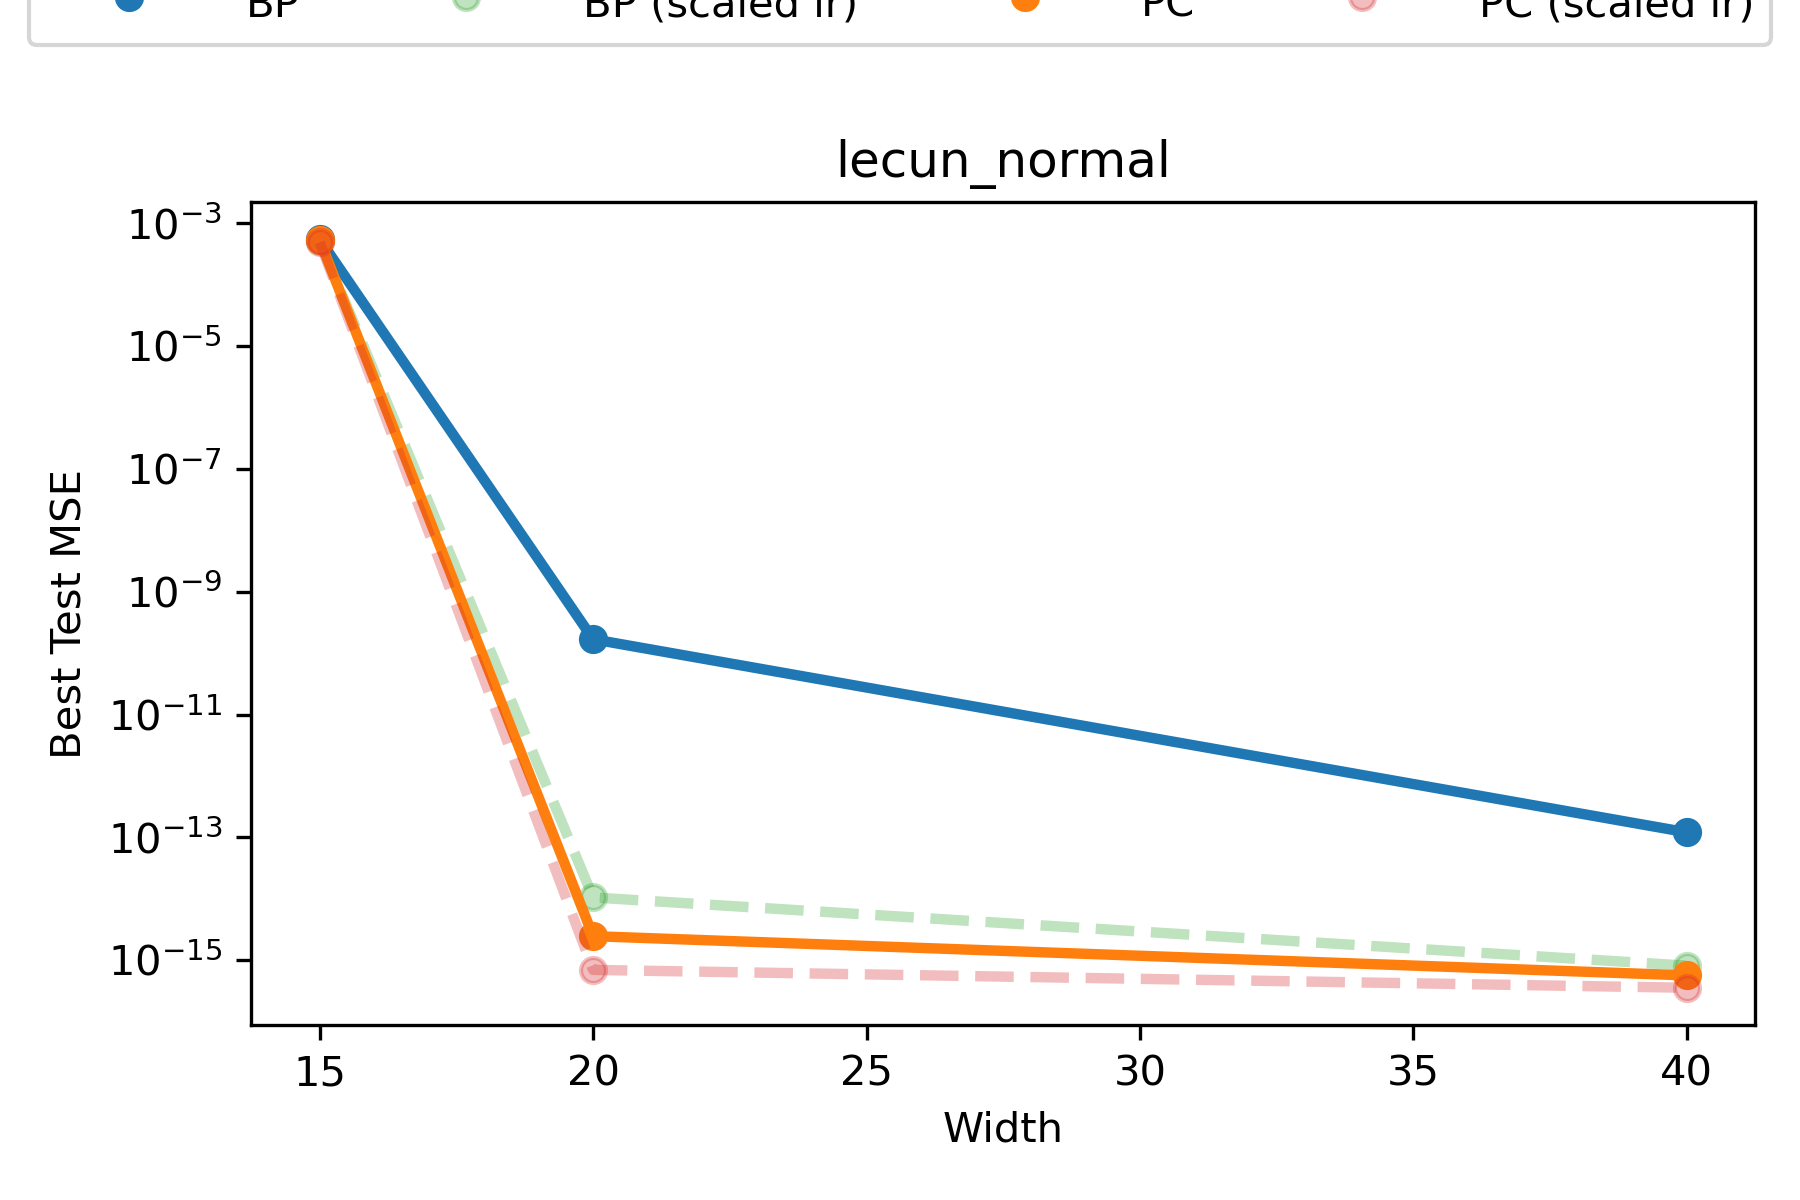
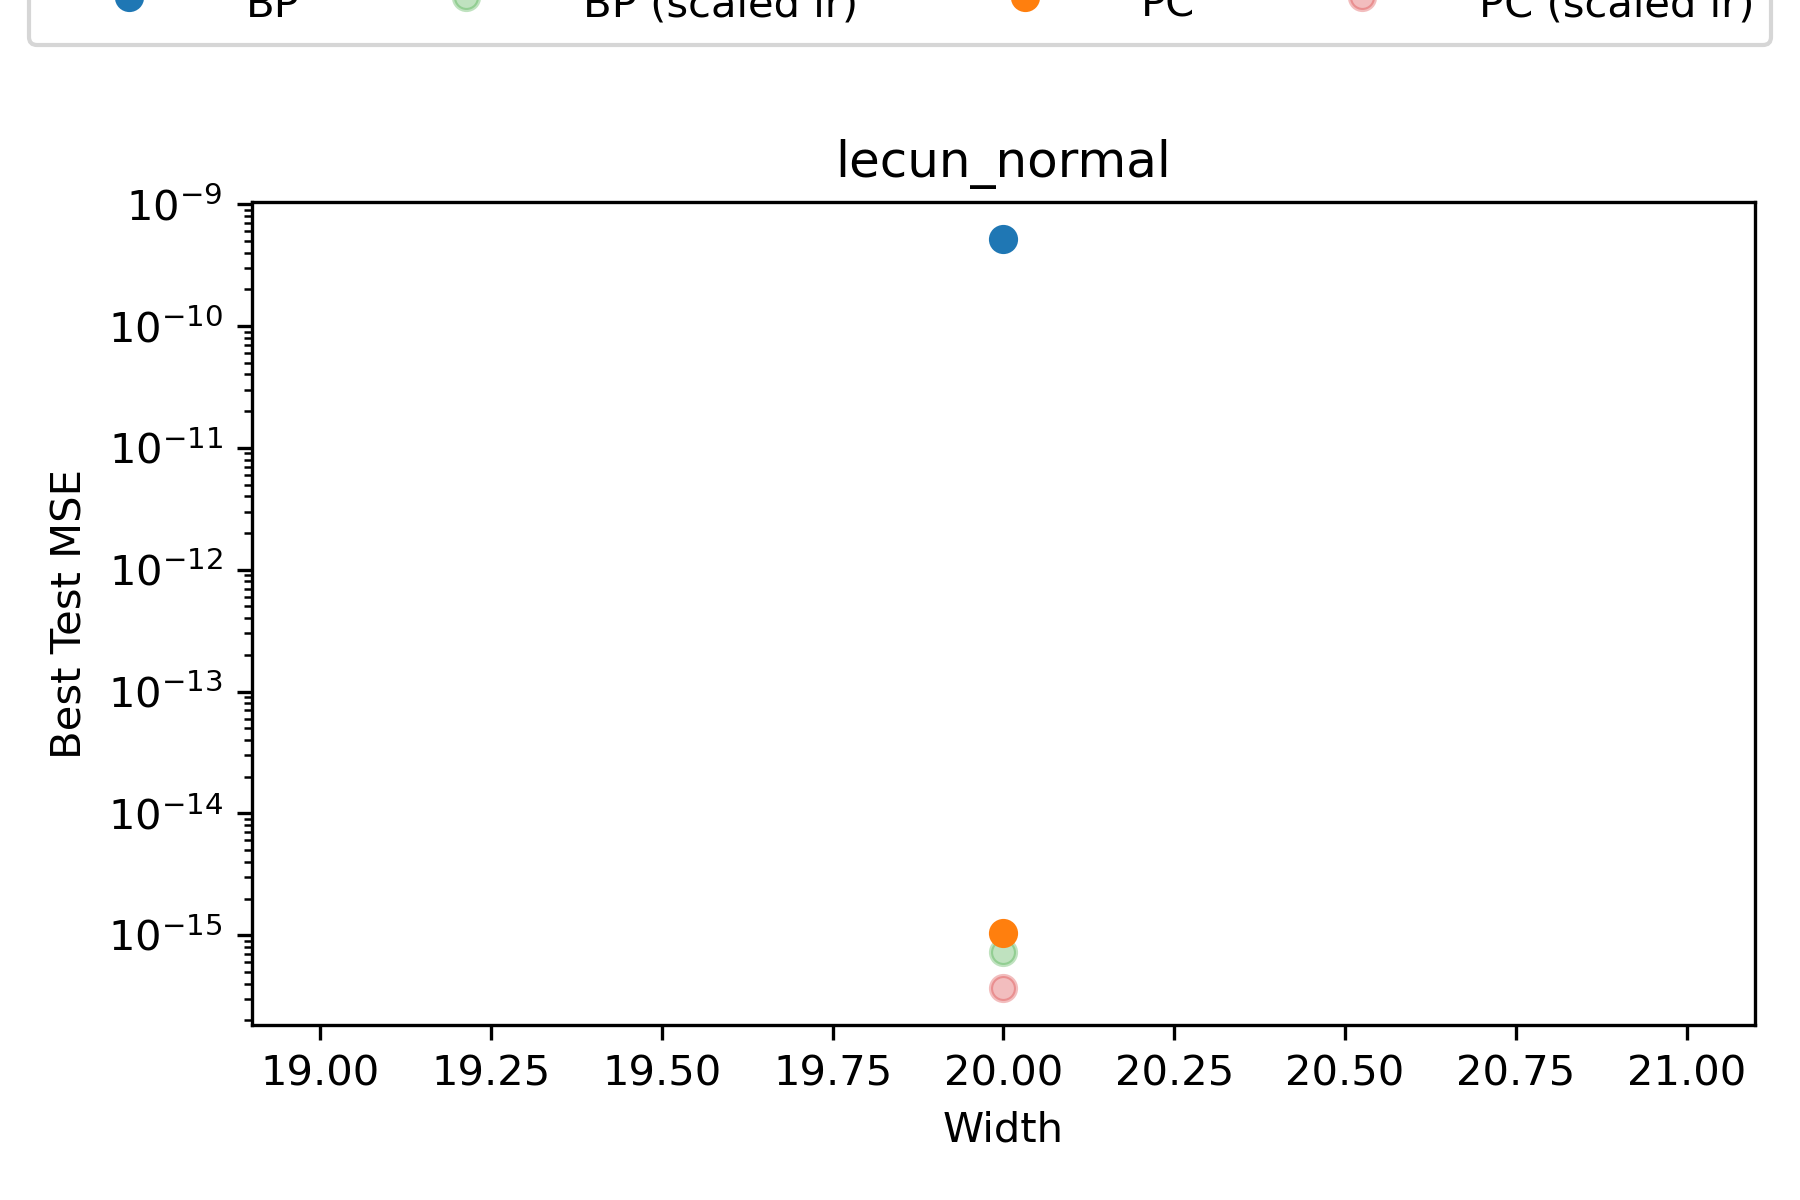
.

diff --git a/Figure2/figure2.py b/Figure2/figure2.py
@@ -271,6 +271,7 @@ class PC_MLP(nn.Module):
     def get_activity_covariance(self, x, y, y_hat, precision):
         self.get_activities(x, y, y_hat, precision)
         covariances = [z0.double().T @ z.double() / z.shape[0] for z0, z in zip(self.z0, self.z)]
+        #covariances = [z0.double().T @ z.double() / z.shape[0] for z0, z in zip(self.z0, self.z)]
         self.scalings = []
         for cov in covariances:
             eps = choose_epsilon_from_eigs(cov, mode="floor", alpha=alpha)
@@ -347,7 +348,7 @@ n_test     = 2048
 batch_size = 64 #64
 
 # widths to sweep
-widths    = [15, 20, 40] #[5, 10, 20, 50, 100]  # edit as needed
+widths    = [20] #[5, 10, 20, 50, 100]  # edit as needed
 nm_layers = 1#5
 
 # training budgets
@@ -524,7 +525,6 @@ for seed in seeds:
     for hidden_dim in widths:
         print(hidden_dim)
         if hidden_dim == 15:
-            print('hi')
             max_steps_sweep = 40#00 #2000
             max_steps_curve = 40#00 #2000
             eval_every      = 10#00
@@ -540,24 +540,22 @@ for seed in seeds:
             amplify_lr_PC = 1#25#3#50    # for BP only (if you want)
         
         if hidden_dim == 20:
-            print('hi')
-            max_steps_sweep = 800#00 #2000
-            max_steps_curve = 800#00 #2000
-            eval_every      = 50#00
+            max_steps_sweep = 400#00 #2000
+            max_steps_curve = 400#00 #2000
+            eval_every      = 40#00
 
             # LR grid (base grid; we optionally amplify for some models)
-            lrs = np.linspace(10**(-3.5), 10**(-0.02), 10) #(-2.9, -0.04, 15)  # ~ 1e-4 ... 1.6e-1
+            lrs = np.linspace(10**(-3.5), 10**(-0.02), 50) #(-2.9, -0.04, 15)  # ~ 1e-4 ... 1.6e-1
 
             # Optional LR scaling knobs (keep if you want)
             amplify_lr_BP_scaled = 1#2       # for "(scaled lr)" variants
-            amplify_lr_PC_scaled = 3#50       # for "(scaled lr)" variants
-            amplify_lr_PC = 3#3#50    # for BP only (if you want)
+            amplify_lr_PC_scaled = 2.5#50       # for "(scaled lr)" variants
+            amplify_lr_PC = 2.5#3#50    # for BP only (if you want)
         
         if hidden_dim == 40:
-            print('hi')
-            max_steps_sweep = 60#00 #2000
-            max_steps_curve = 60#00 #2000
-            eval_every      = 5#00
+            max_steps_sweep = 400#00 #2000
+            max_steps_curve = 400#00 #2000
+            eval_every      = 40#00
 
             # LR grid (base grid; we optionally amplify for some models)
             lrs = np.linspace(10**(-3.5), 10**(-0.02), 10) #(-2.9, -0.04, 15)  # ~ 1e-4 ... 1.6e-1
